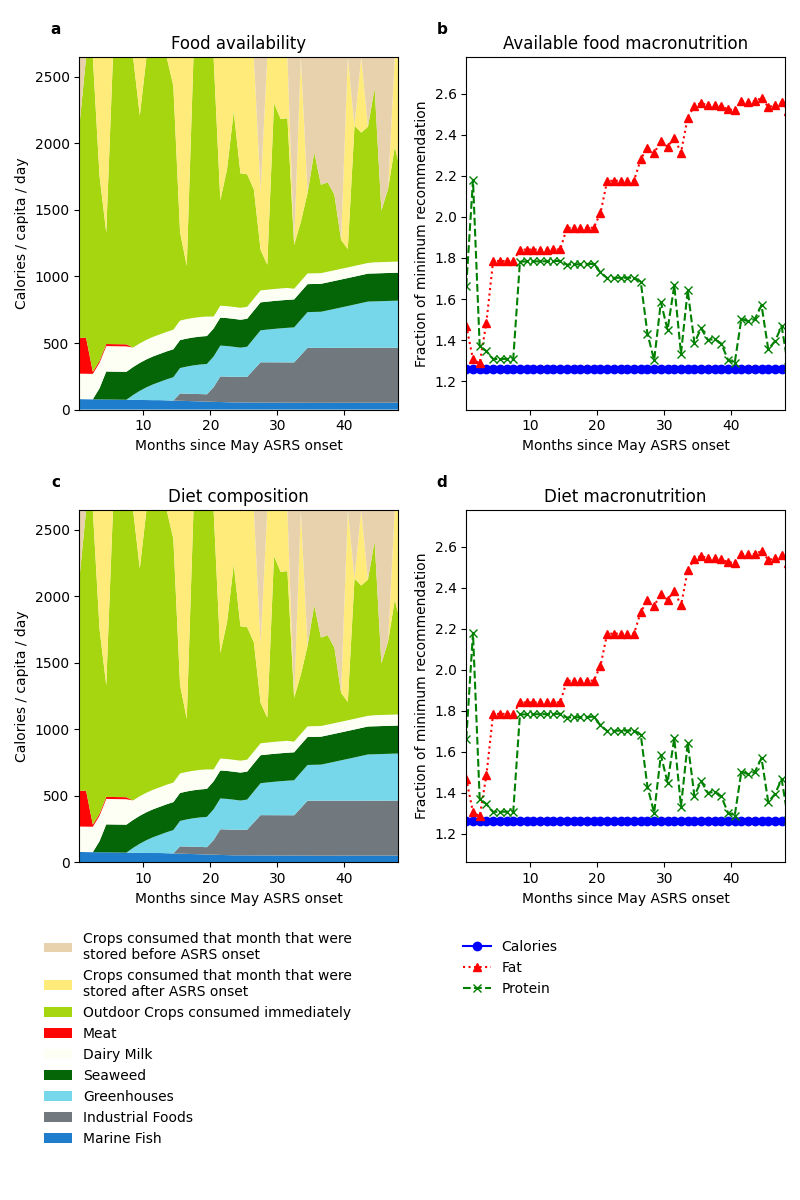
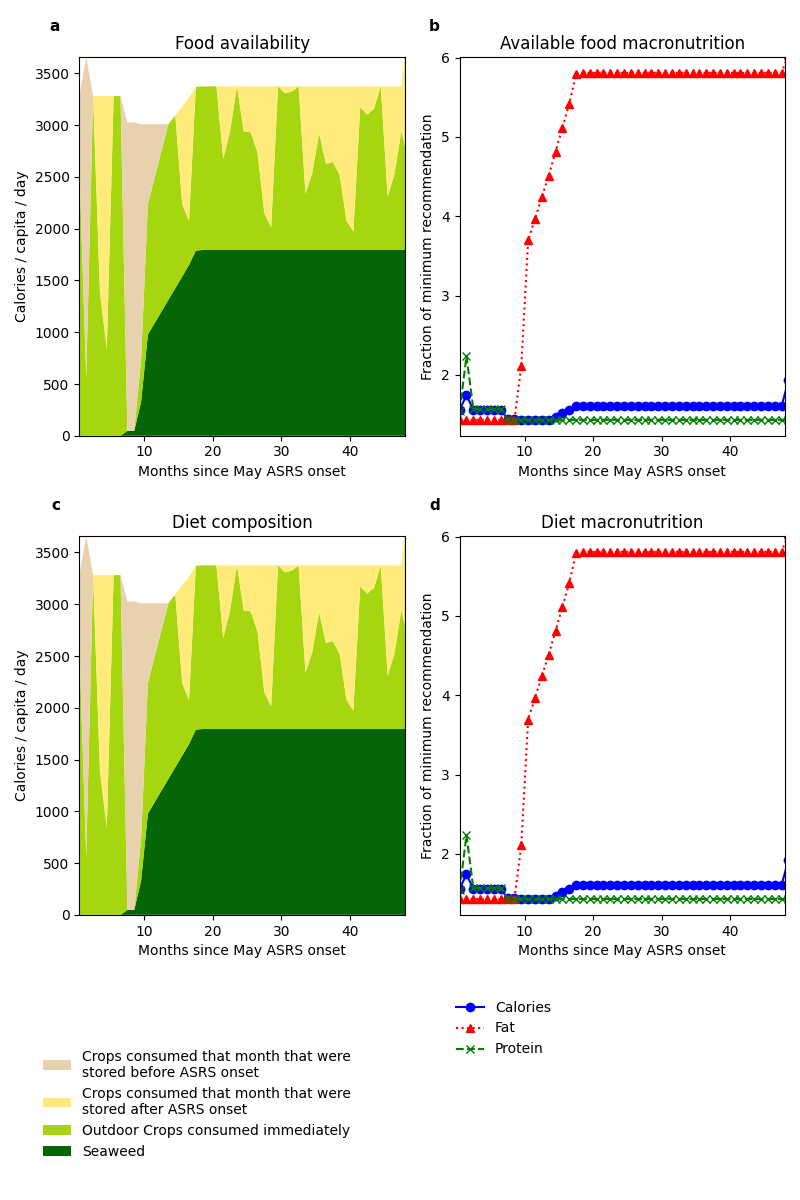
removed seaweed convenient assumption condition, slows down things a lot

diff --git a/src/optimizer/optimizer.py b/src/optimizer/optimizer.py
@@ -216,49 +216,44 @@ class Optimizer:
         standard_deviation = self.single_valued_constants["inputs"]["DELAY"]["SEAWEED_MONTHS"]
         sum_food_this_month = []
         #assume that the only harvest opportunity is once a month
-        if month > (15 + standard_deviation):
-            variables["seaweed_food_produced_monthly"][month] = LpVariable(name="Seaweed_Food_Produced_Monthly_"+str(month)+"_Variable", lowBound=0)
-            return (model, variables)
+        for day in np.arange(month*self.single_valued_constants["DAYS_IN_MONTH"], (month + 1)*self.single_valued_constants["DAYS_IN_MONTH"]):
+            self.time_days_daily.append(day)
+            variables["seaweed_wet_on_farm"][day] = LpVariable(
+                "Seaweed_Wet_On_Farm_"
+                + str(day)
+                + "_Variable",
+                self.single_valued_constants["INITIAL_SEAWEED"],
+                self.single_valued_constants["MAXIMUM_DENSITY"] * self.multi_valued_constants["built_area"][day])
 
-        else:
-            for day in np.arange(month*self.single_valued_constants["DAYS_IN_MONTH"], (month + 1)*self.single_valued_constants["DAYS_IN_MONTH"]):
-                self.time_days_daily.append(day)
-                variables["seaweed_wet_on_farm"][day] = LpVariable(
-                    "Seaweed_Wet_On_Farm_"
-                    + str(day)
-                    + "_Variable",
-                    self.single_valued_constants["INITIAL_SEAWEED"],
-                    self.single_valued_constants["MAXIMUM_DENSITY"] * self.multi_valued_constants["built_area"][day])
+            # food production (using resources)
+            variables["seaweed_food_produced"][day] = LpVariable(
+                name="Seaweed_Food_Produced_During_Day_"+str(day)+"_Variable", lowBound=0)
 
-                # food production (using resources)
-                variables["seaweed_food_produced"][day] = LpVariable(
-                    name="Seaweed_Food_Produced_During_Day_"+str(day)+"_Variable", lowBound=0)
+            variables["used_area"][day] = LpVariable(
+                "Used_Area_"+str(day)+"_Variable", self.single_valued_constants["INITIAL_AREA"], self.multi_valued_constants["built_area"][day])
 
-                variables["used_area"][day] = LpVariable(
-                    "Used_Area_"+str(day)+"_Variable", self.single_valued_constants["INITIAL_AREA"], self.multi_valued_constants["built_area"][day])
+            if(day == 0):  # first Day
+                model += (variables["seaweed_wet_on_farm"][0] == self.single_valued_constants["INITIAL_SEAWEED"],
+                          "Seaweed_Wet_On_Farm_0_Constraint")
+                model += (variables["used_area"][0] == self.single_valued_constants["INITIAL_AREA"],
+                          "Used_Area_Day_0_Constraint")
+                model += (variables["seaweed_food_produced"][0] == 0,
+                          "Seaweed_Food_Produced_Day_0_Constraint")
 
-                if(day == 0):  # first Day
-                    model += (variables["seaweed_wet_on_farm"][0] == self.single_valued_constants["INITIAL_SEAWEED"],
-                              "Seaweed_Wet_On_Farm_0_Constraint")
-                    model += (variables["used_area"][0] == self.single_valued_constants["INITIAL_AREA"],
-                              "Used_Area_Day_0_Constraint")
-                    model += (variables["seaweed_food_produced"][0] == 0,
-                              "Seaweed_Food_Produced_Day_0_Constraint")
+            else:  # later Days
+                model += (variables["seaweed_wet_on_farm"][day] <= variables["used_area"]
+                          [day] * self.single_valued_constants["MAXIMUM_DENSITY"])
 
-                else:  # later Days
-                    model += (variables["seaweed_wet_on_farm"][day] <= variables["used_area"]
-                              [day] * self.single_valued_constants["MAXIMUM_DENSITY"])
+                model += (variables["seaweed_wet_on_farm"][day] ==
+                          variables["seaweed_wet_on_farm"][day-1] *
+                          (1+self.single_valued_constants["inputs"]["SEAWEED_PRODUCTION_RATE"]/100.)
+                          - variables["seaweed_food_produced"][day]
+                          - (variables["used_area"][day]-variables["used_area"][day-1]) *
+                          self.single_valued_constants["MINIMUM_DENSITY"]
+                          * (self.single_valued_constants["HARVEST_LOSS"] / 100),
+                          "Seaweed_Wet_On_Farm_"+str(day)+"_Constraint")
 
-                    model += (variables["seaweed_wet_on_farm"][day] ==
-                              variables["seaweed_wet_on_farm"][day-1] *
-                              (1+self.single_valued_constants["inputs"]["SEAWEED_PRODUCTION_RATE"]/100.)
-                              - variables["seaweed_food_produced"][day]
-                              - (variables["used_area"][day]-variables["used_area"][day-1]) *
-                              self.single_valued_constants["MINIMUM_DENSITY"]
-                              * (self.single_valued_constants["HARVEST_LOSS"] / 100),
-                              "Seaweed_Wet_On_Farm_"+str(day)+"_Constraint")
-
-                sum_food_this_month.append(variables["seaweed_food_produced"][day])
+            sum_food_this_month.append(variables["seaweed_food_produced"][day])
 
         variables["seaweed_food_produced_monthly"][month] = LpVariable(
             name="Seaweed_Food_Produced_Monthly_" + str(month) + "_Variable", lowBound=0)
@@ -423,16 +418,10 @@ class Optimizer:
             # a rounding error from full quantity of seaweed
             standard_deviation = self.single_valued_constants["inputs"]["DELAY"]["SEAWEED_MONTHS"]
 
-            if month > (15 + standard_deviation):
-               model += (variables["seaweed_food_produced_monthly"][month] * self.single_valued_constants["SEAWEED_KCALS"] ==
-                         (self.single_valued_constants["inputs"]["MAX_SEAWEED_AS_PERCENT_KCALS"]/100)
-                          * (self.single_valued_constants["POP"] / 1e9 * self.single_valued_constants["KCALS_MONTHLY"]),
-                          "Seaweed_Limit_Kcals_" + str(month) + "_Constraint")
-            else:
-                model += (variables["seaweed_food_produced_monthly"][month] * self.single_valued_constants["SEAWEED_KCALS"] <=
-                          (self.single_valued_constants["inputs"]["MAX_SEAWEED_AS_PERCENT_KCALS"]/100)
-                          * (self.single_valued_constants["POP"] / 1e9 * self.single_valued_constants["KCALS_MONTHLY"]),
-                          "Seaweed_Limit_Kcals_" + str(month) + "_Constraint")
+            model += (variables["seaweed_food_produced_monthly"][month] * self.single_valued_constants["SEAWEED_KCALS"] <=
+                      (self.single_valued_constants["inputs"]["MAX_SEAWEED_AS_PERCENT_KCALS"]/100)
+                      * (self.single_valued_constants["POP"] / 1e9 * self.single_valued_constants["KCALS_MONTHLY"]),
+                      "Seaweed_Limit_Kcals_" + str(month) + "_Constraint")
 
         # finds billions of people fed that month per nutrient
 
